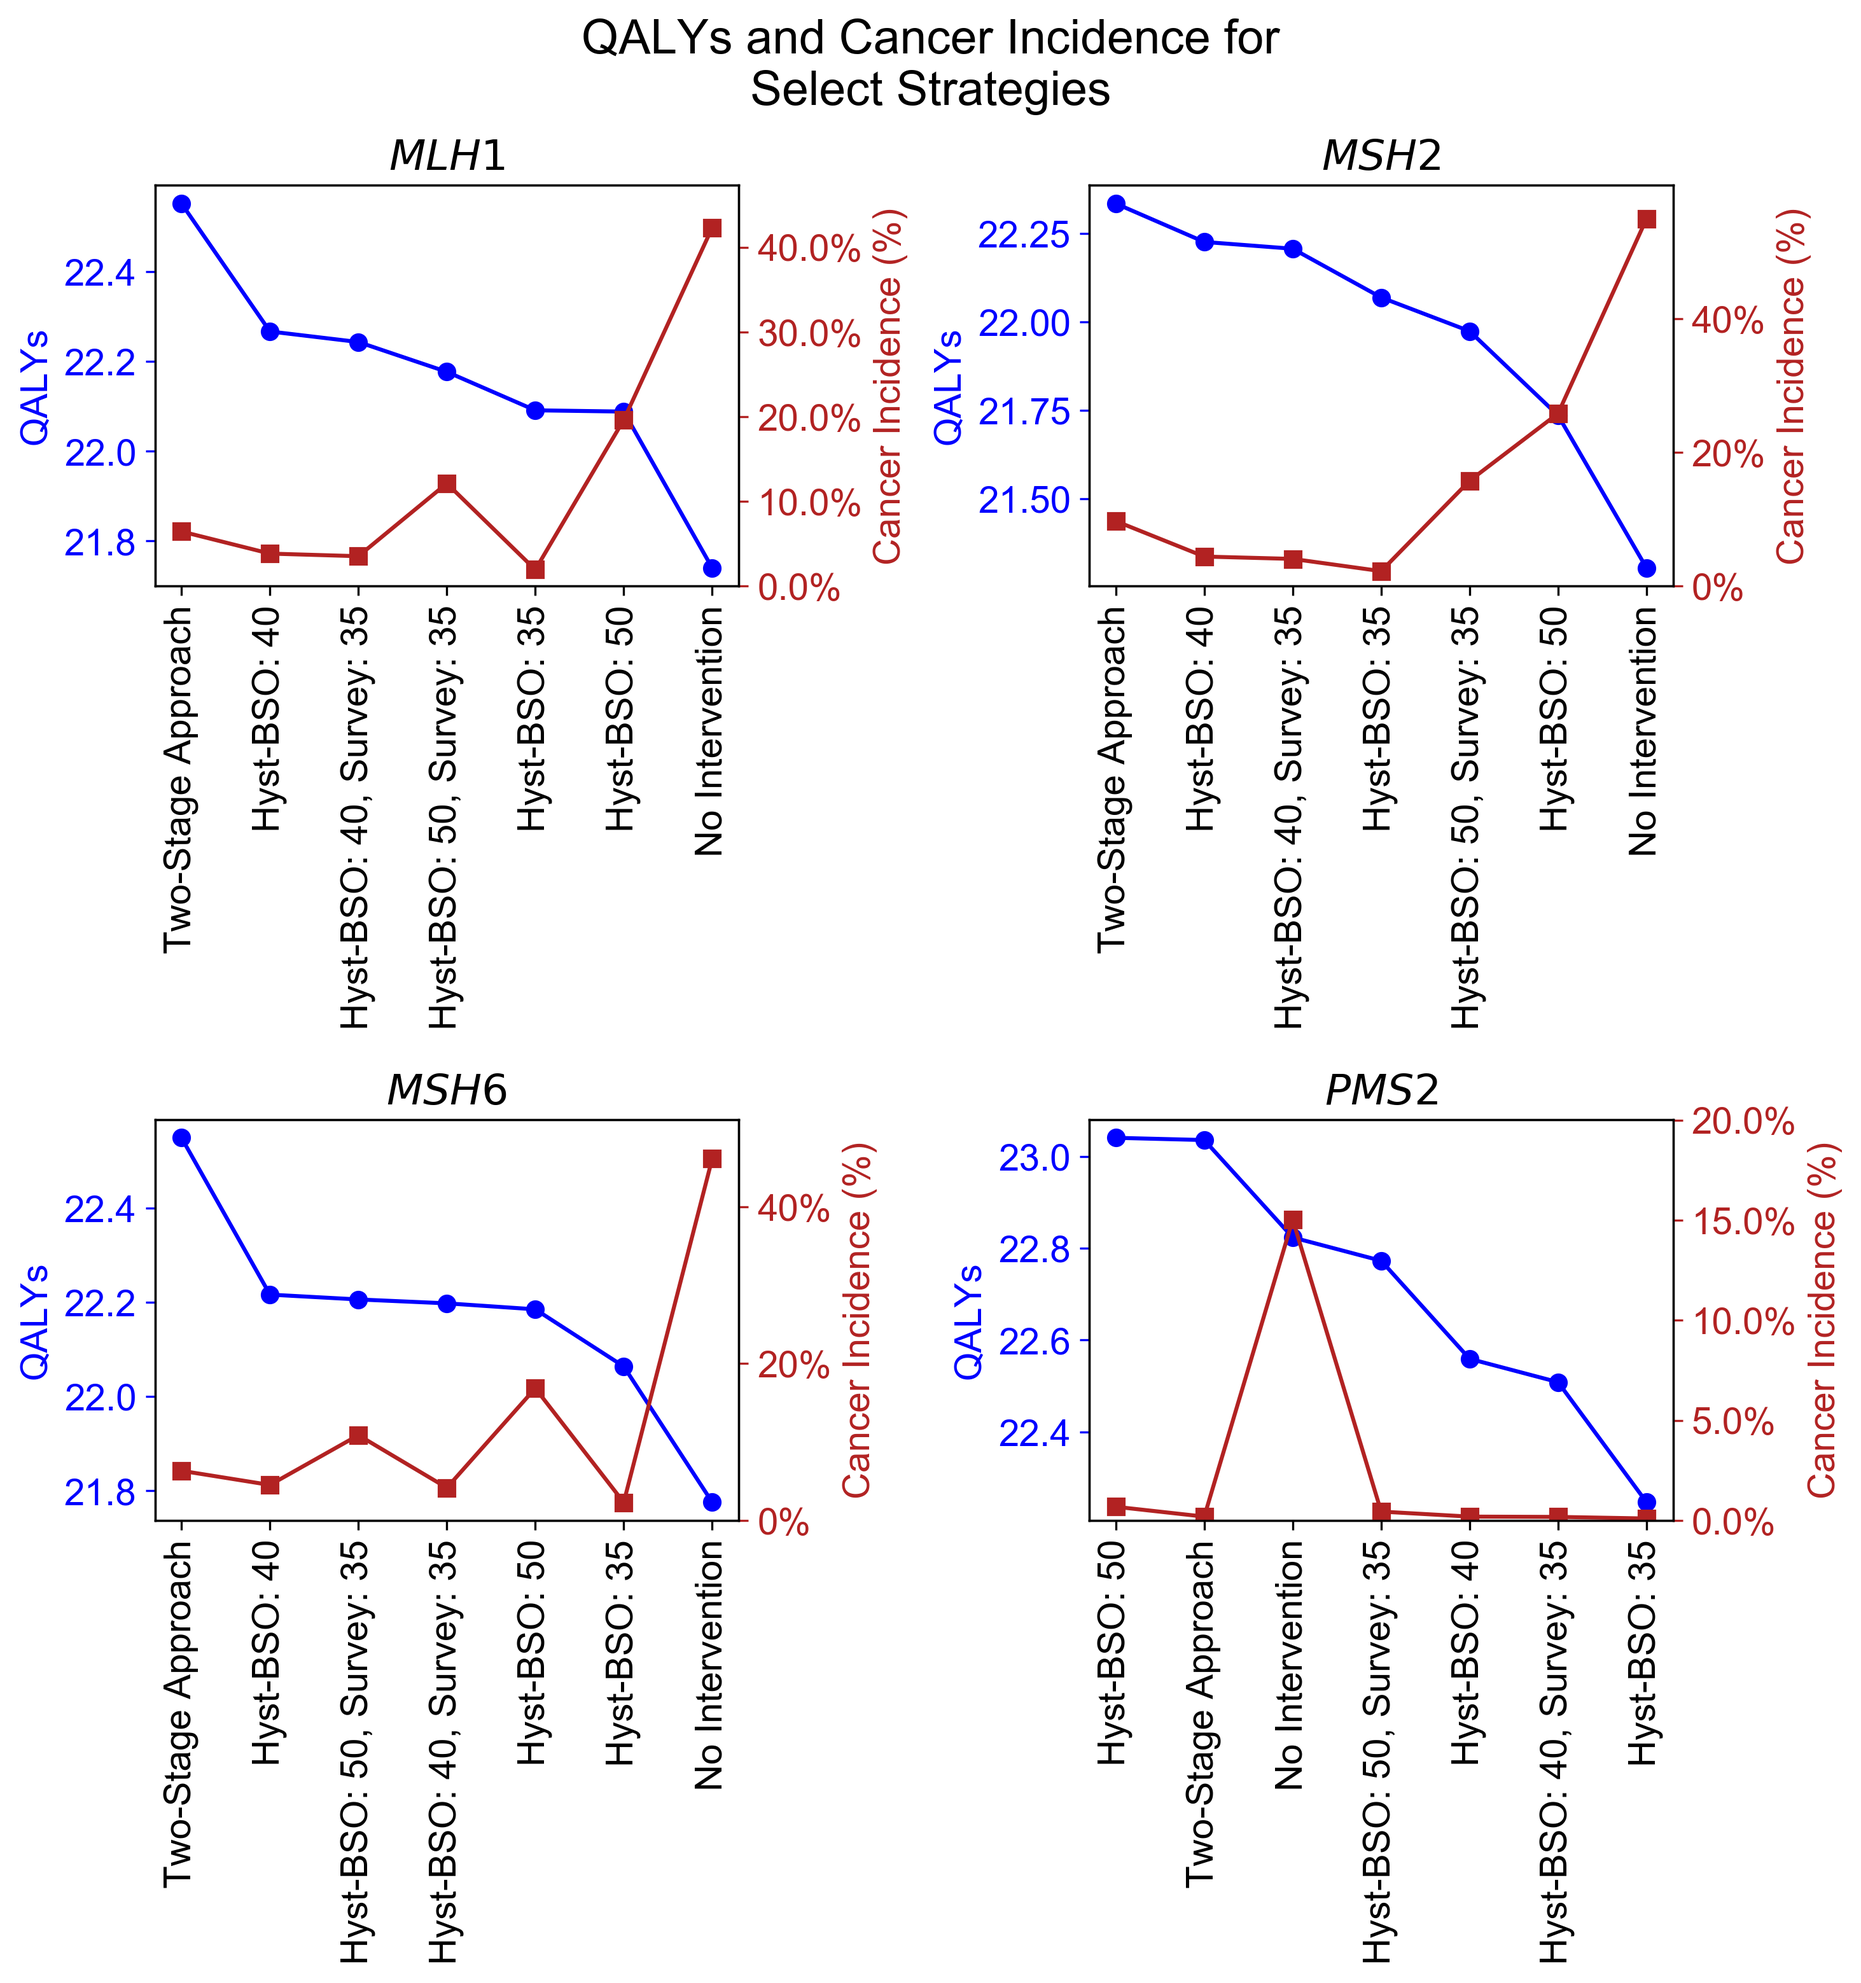
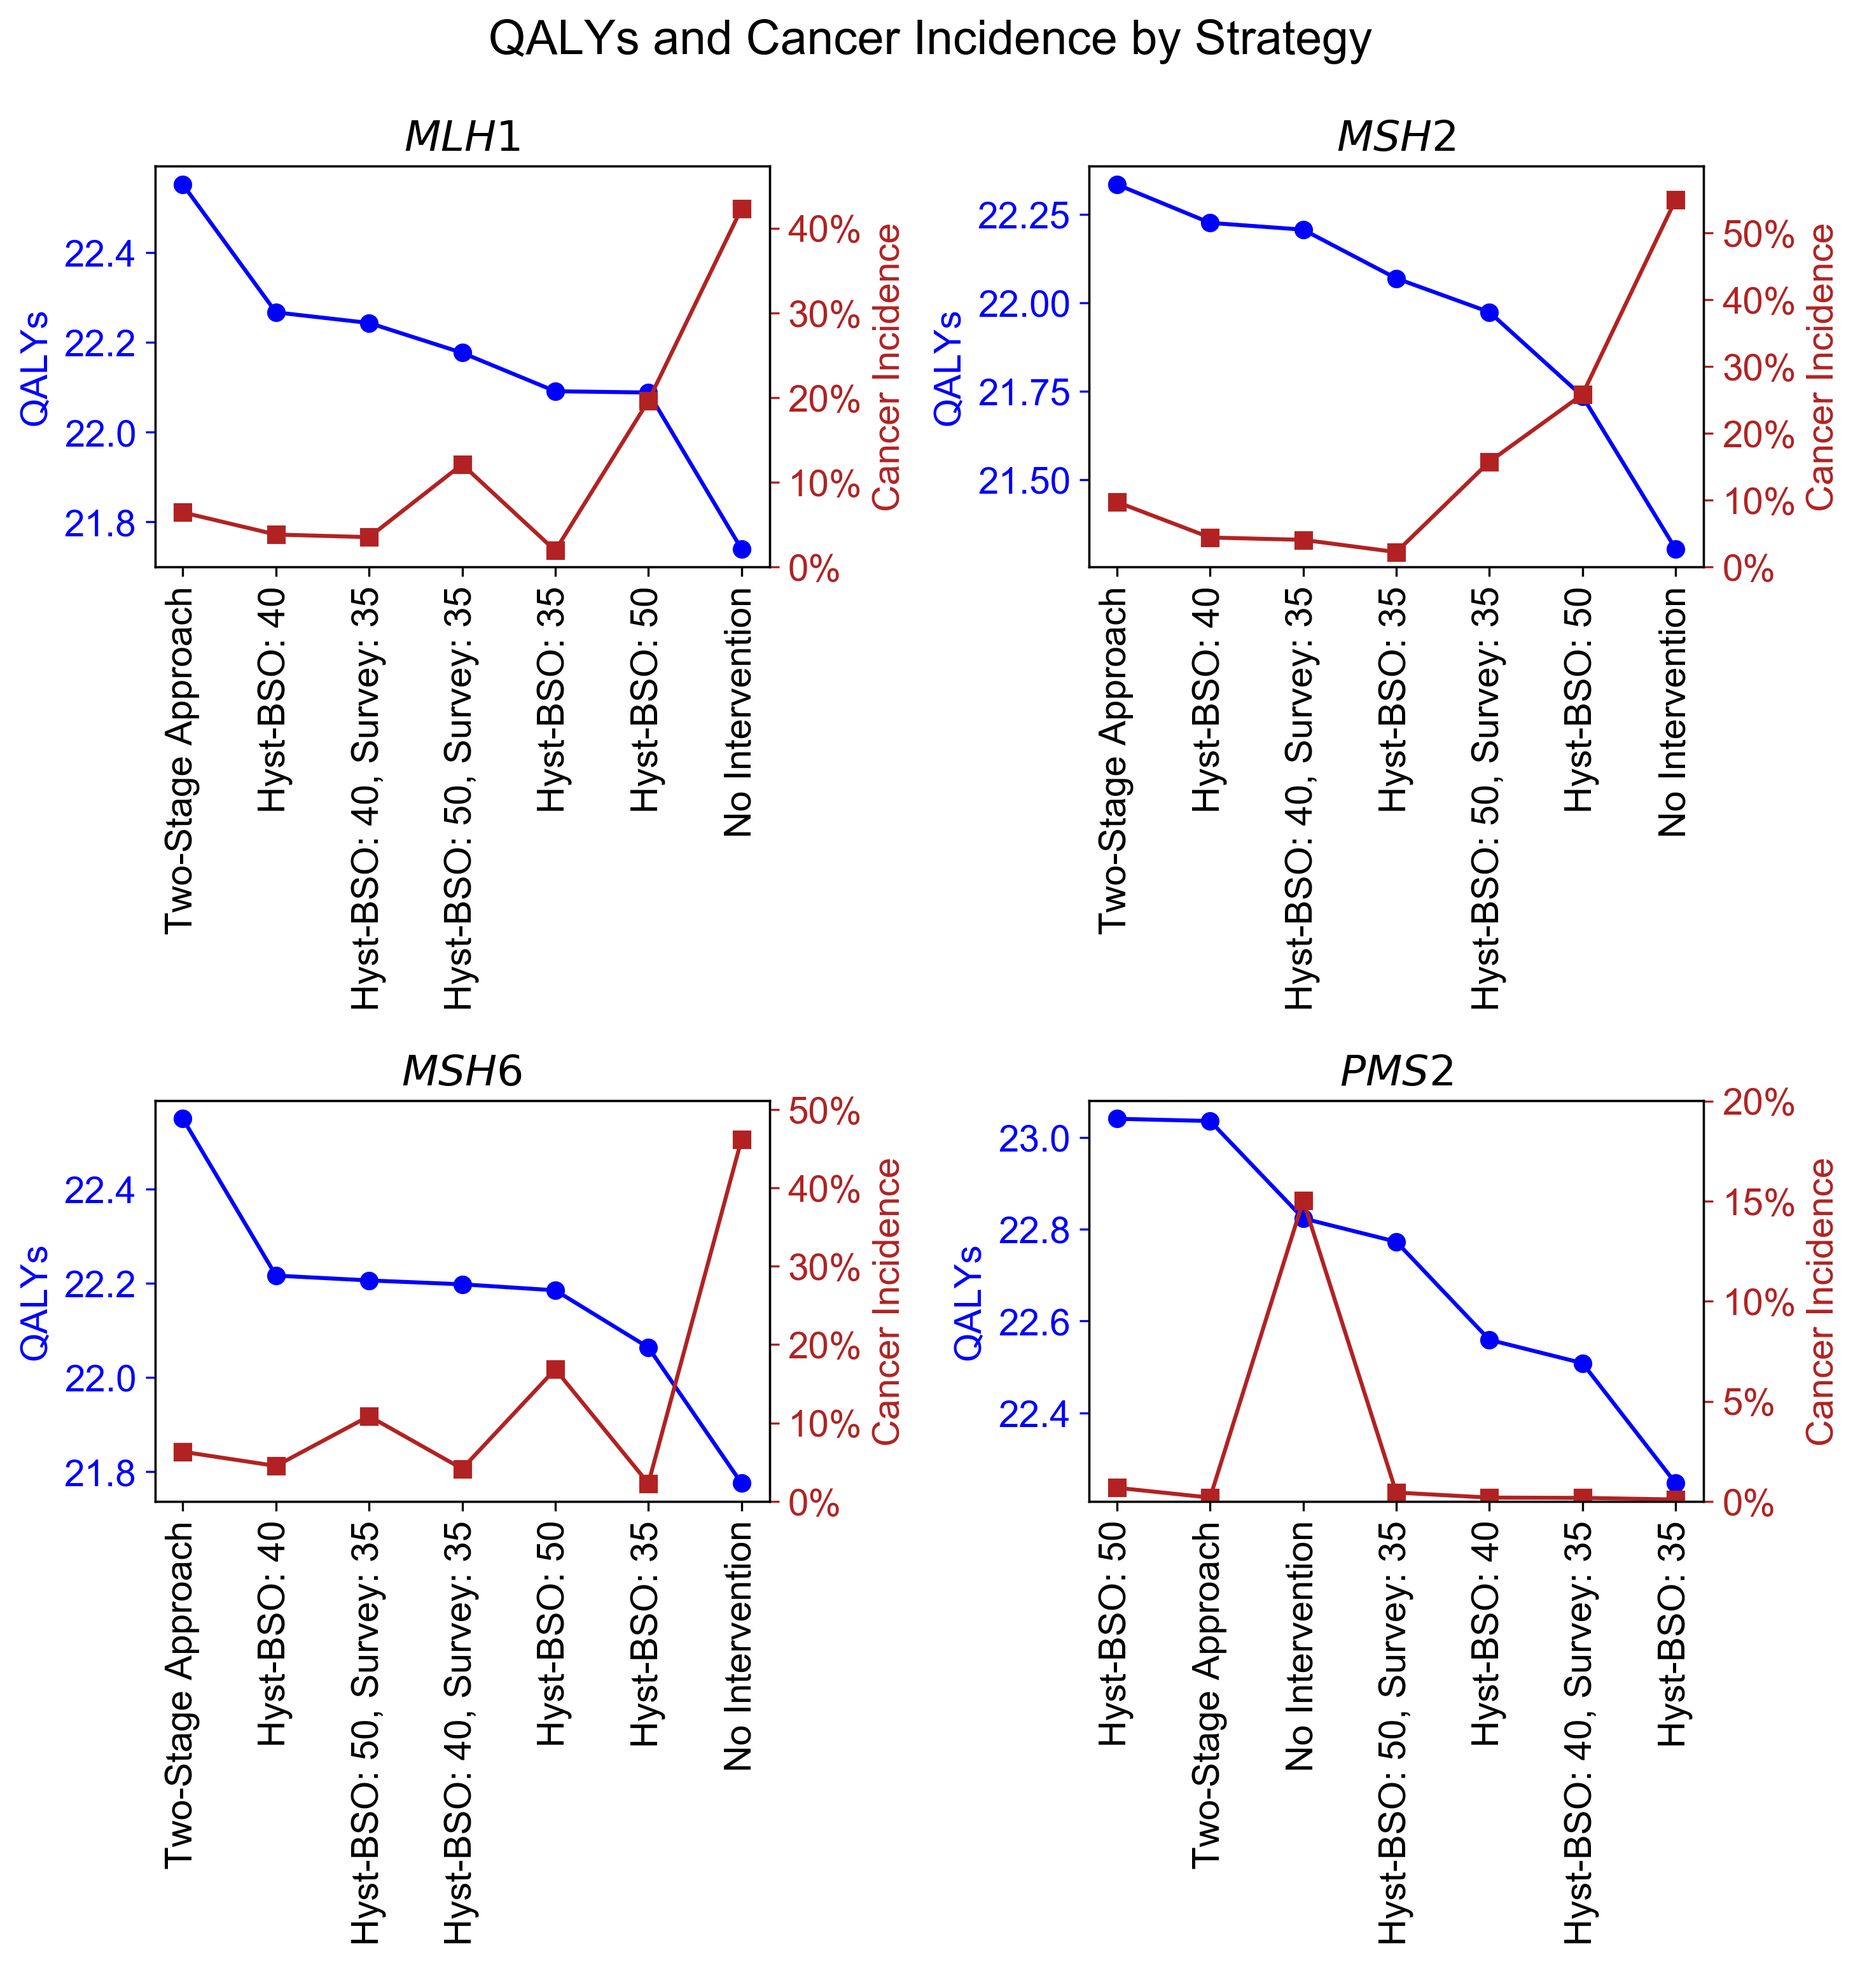
updated base case plot

diff --git a/src/post_processing.py b/src/post_processing.py
@@ -1258,8 +1258,10 @@ def create_bc_ax_qalys_cancer(gene_df_og, ax, sub_ax):
     gene_df = gene_df_og.copy()
     df = gene_df.sort_values(by = ps.QALY_COL, ascending=False)
     df = df.reset_index(drop = True)
+    
     x = df['strategy'].to_list()
     y1 = df[ps.QALY_COL].to_list()
+    
     y2 = df['Cancer Incidence'].to_list()
     #set the primary axis (QALYs)
     ax.plot(x, y1, c =  'b', marker = 'o', label = 'QALYs')
@@ -1270,25 +1272,42 @@ def create_bc_ax_qalys_cancer(gene_df_og, ax, sub_ax):
     ax.tick_params(axis ='x', rotation = 90)
     
     #Build graph with second y-axis 
-    sub_ax.set_ylabel('Cancer Incidence (%)', color = 'firebrick')
+    sub_ax.set_ylabel('Cancer Incidence', color = 'firebrick')
     sub_ax.yaxis.label.set_color('firebrick')
+    if gene_df.loc[0, 'gene'] != 'PMS2':
+        sub_ax.set_yticks(np.arange(0, 60, step = 10))
+    else:
+        sub_ax.set_yticks(np.arange(0, 25, step = 5))
+        
     sub_ax.set_ylim(bottom=0, top = max(y2)+5)
-    sub_ax.yaxis.set_major_formatter(mtick.PercentFormatter())
+    
+    fmt = '%.0f%%' # Format you want the ticks, e.g. '40%'
+    yticks = mtick.FormatStrFormatter(fmt)
+    sub_ax.yaxis.set_major_formatter(yticks)
+    #sub_ax.yaxis.set_major_formatter(mtick.PercentFormatter())
     sub_ax.tick_params(axis='y', colors='firebrick')
-    sub_ax.plot(x, y2, color = 'firebrick', marker = 's', label = 'Cancer Incidence (%)')
+    sub_ax.plot(x, y2, color = 'firebrick', marker = 's', label = 'Cancer Incidence')
     return ax, sub_ax
 
-def plot_basecase(output_df_og, together = False, column = ps.QALY_COL):
+def plot_basecase(output_df_og, together = False, column = ps.QALY_COL,
+                  select_strats = True):
     
     output_df = output_df_og.copy()
     
+        
     if ps.EXCLUDE_NH:
         output_df = output_df[output_df['strategy'] != 'Nat Hist']
         fname = f'qalys_cancer_incidence{ps.icer_version}.png'
     else:
         fname = f'qalys_cancer_incidence{ps.icer_version}_with_nh.png'
-        
+    
     output_df['strategy'] = output_df['strategy'].map(ps.STRATEGY_DICT)
+    
+    if select_strats:
+        cond = ((output_df['strategy'].str.contains('Survey Alone'))|
+                (output_df['strategy'].str.contains('Survey: 30')))
+        output_df = output_df[cond == False]
+    
     output_df['Cancer Incidence'] *= 100
     output_df['Cancer Mortality'] *= 100
     
@@ -1328,10 +1347,10 @@ def plot_basecase(output_df_og, together = False, column = ps.QALY_COL):
             plt.savefig(ps.dump_figs/fname, bbox_inches = 'tight', dpi = 300)
         plt.show()
         
-# =============================================================================
-# df = pd.read_csv(ps.dump/f"{ps.F_NAME_DICT['BC_QALYs']}{ps.icer_version}.csv")
-# plot_basecase(df, together = True)
-# =============================================================================
+#df = pd.read_csv(ps.dump/f"{ps.F_NAME_DICT['BC_QALYs']}{ps.icer_version}.csv")
+#plot_basecase(df, together = True)
+
+
 import regex as re
 def build_outputs_ax(df_dict, ax, gene, col):
     temp = df_dict.copy()

diff --git a/src/presets_lynchGYN.py b/src/presets_lynchGYN.py
@@ -74,7 +74,7 @@ CONNECTIVITY = pd.read_excel(data_io.CONNECT_MATRIX)
 EXCLUDE_NH = False
 #Determines whteher or not figures should be saved
 #Switch to False for testing
-SAVE_FIGS = False
+SAVE_FIGS = True
 
 class run_type:
     #preset for run type is natural history
